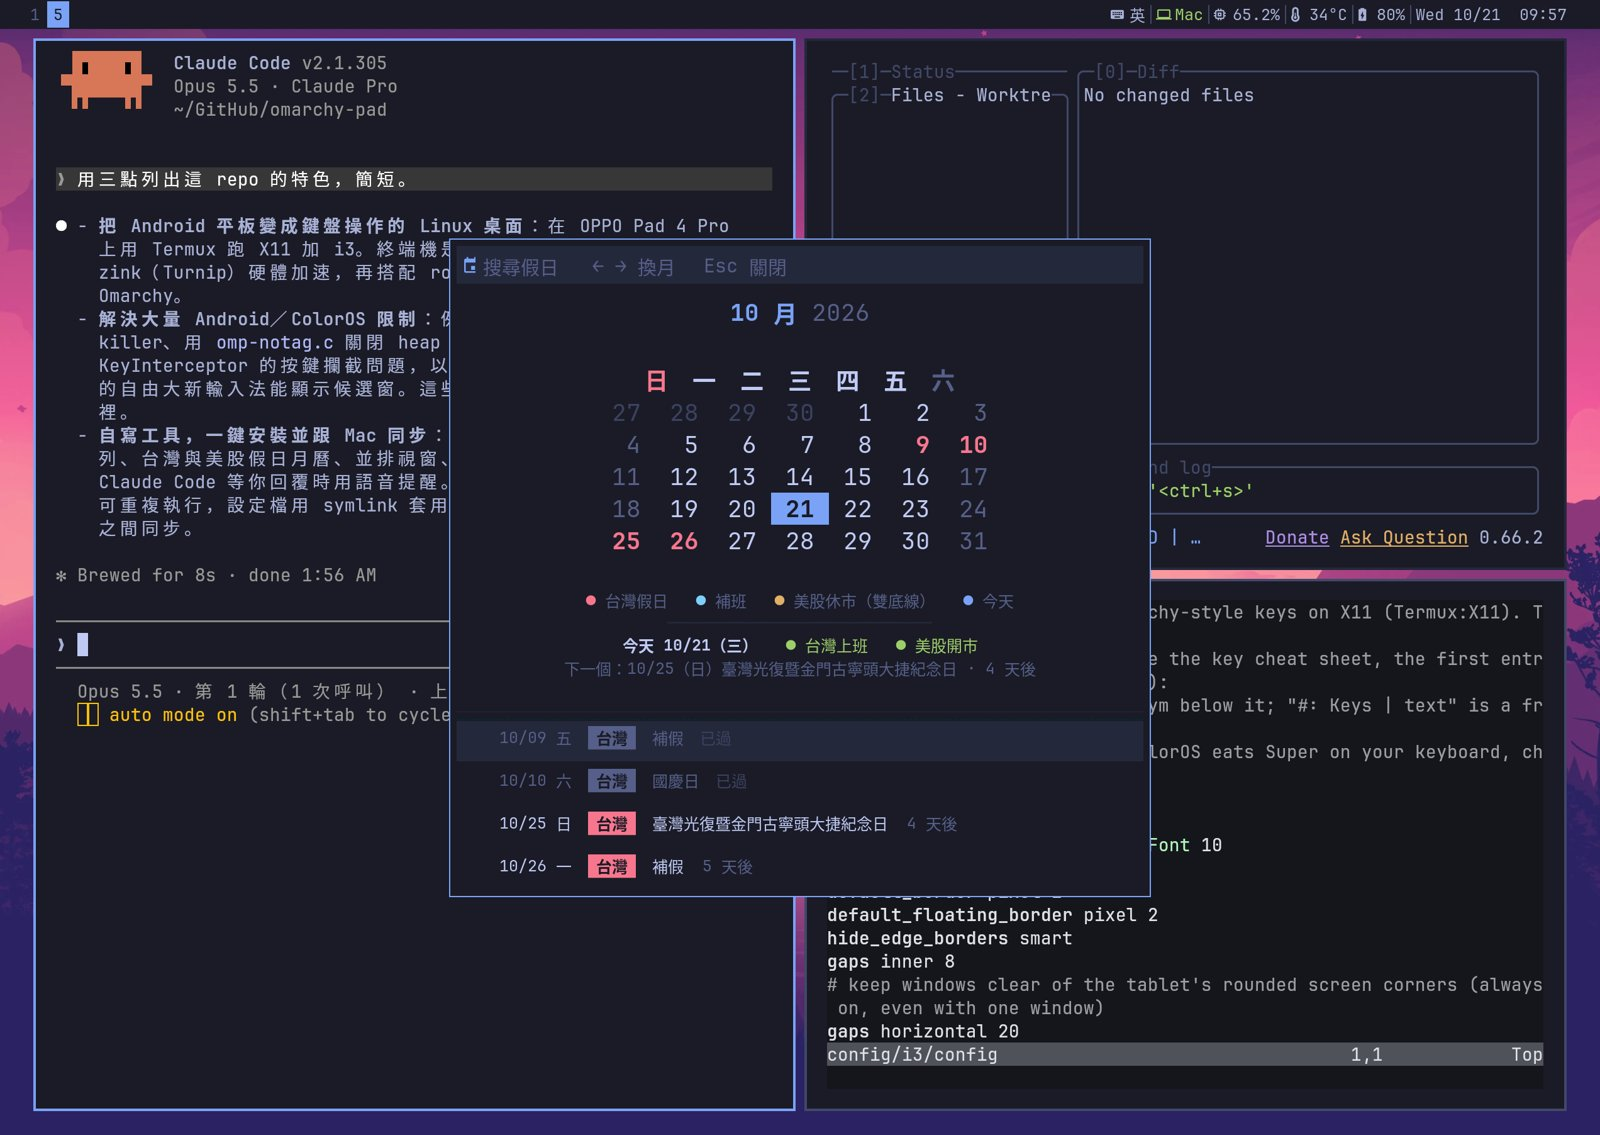
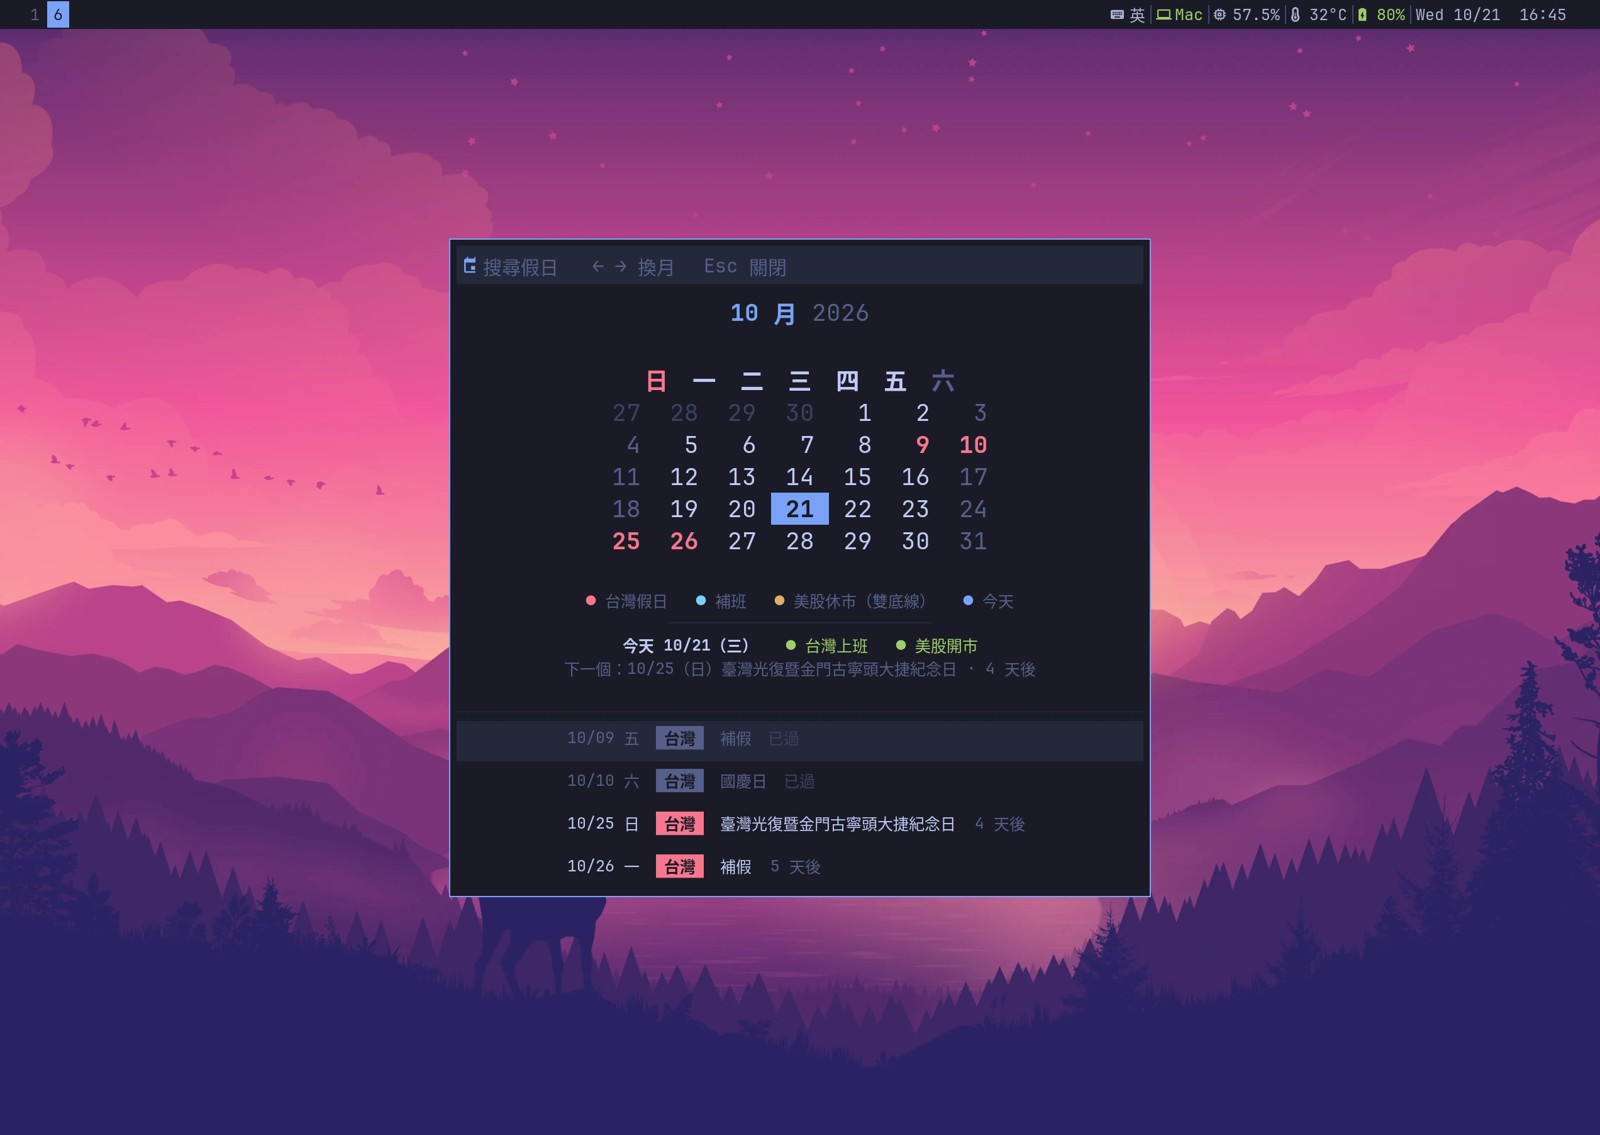
Screenshots: retake key cheat sheet and calendar with the centered lists, add an empty-desktop shot

diff --git a/README.md b/README.md
@@ -40,6 +40,9 @@ flowchart LR
 </tr>
 </table>
 
+![A fresh desktop: just the wallpaper and the status bar](docs/screenshots/empty.jpg)
+<sub>A fresh desktop: just the wallpaper and the status bar (workspaces, input language, Mac, memory, temperature, battery, clock)</sub>
+
 ## What you need
 
 ```mermaid

diff --git a/README.zh-TW.md b/README.zh-TW.md
@@ -40,6 +40,9 @@ flowchart LR
 </tr>
 </table>
 
+![新桌面：只有桌布和狀態列](docs/screenshots/empty.jpg)
+<sub>新桌面：只有桌布和狀態列（桌面編號、中／英、Mac、記憶體、溫度、電池、時間）</sub>
+
 ## 需要準備
 
 ```mermaid
